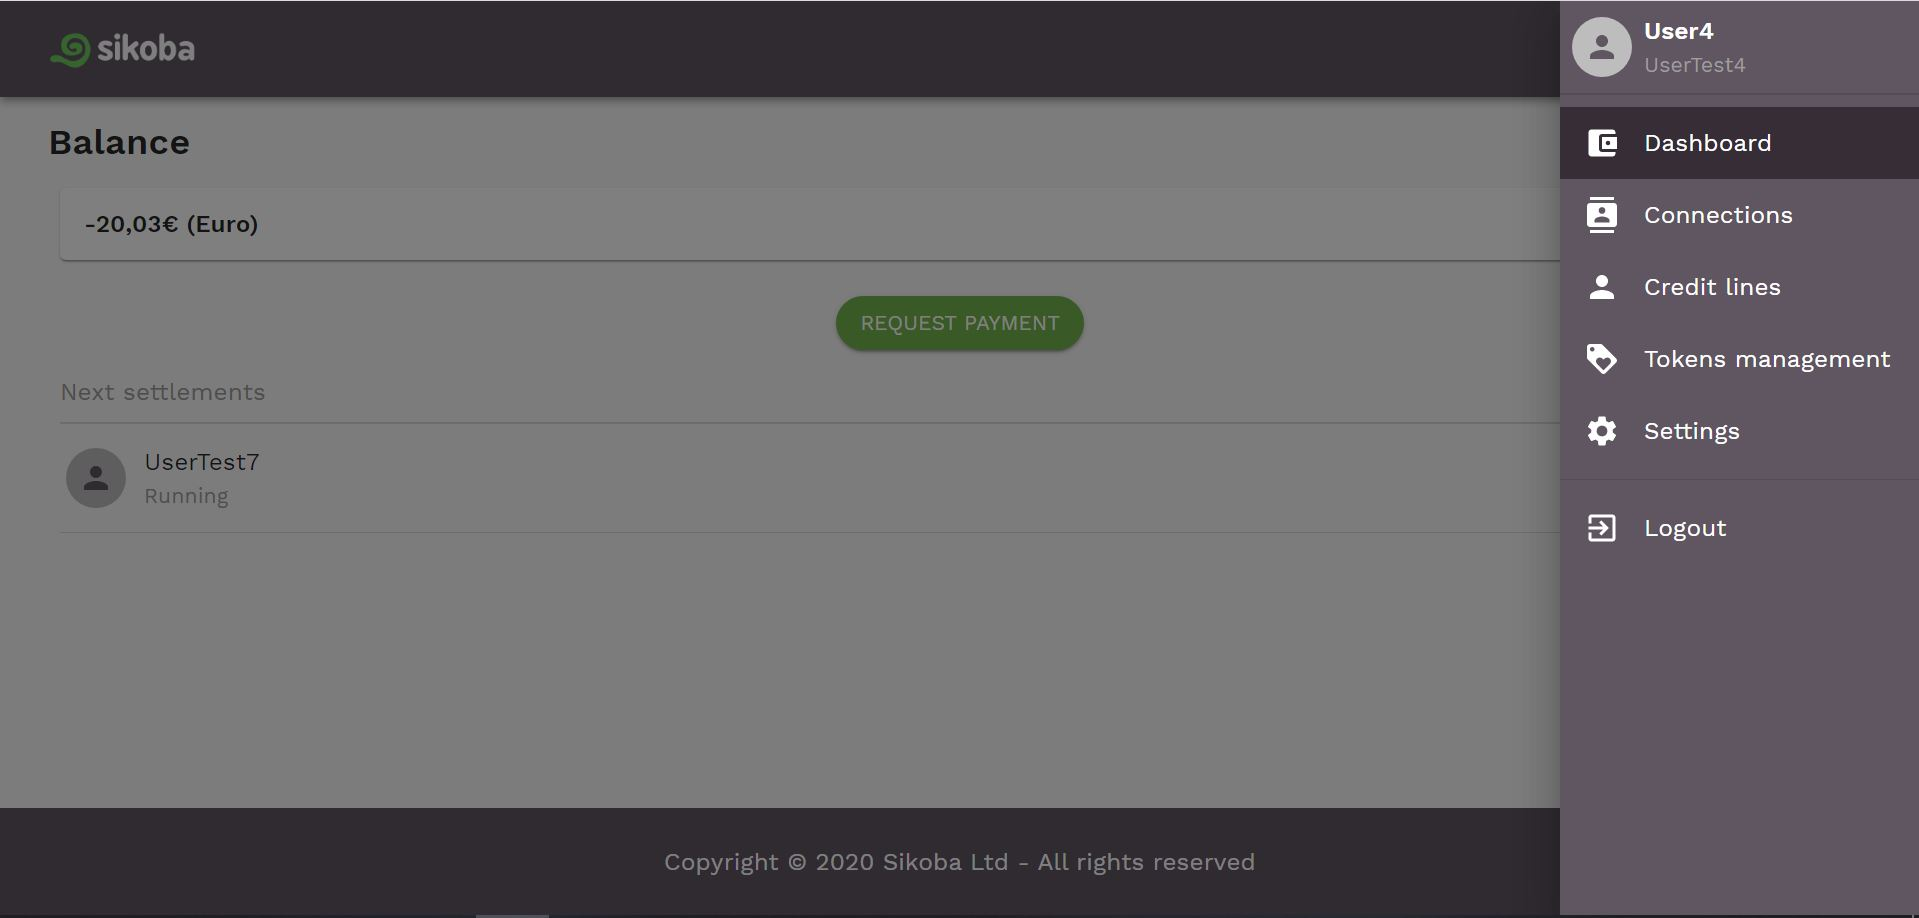
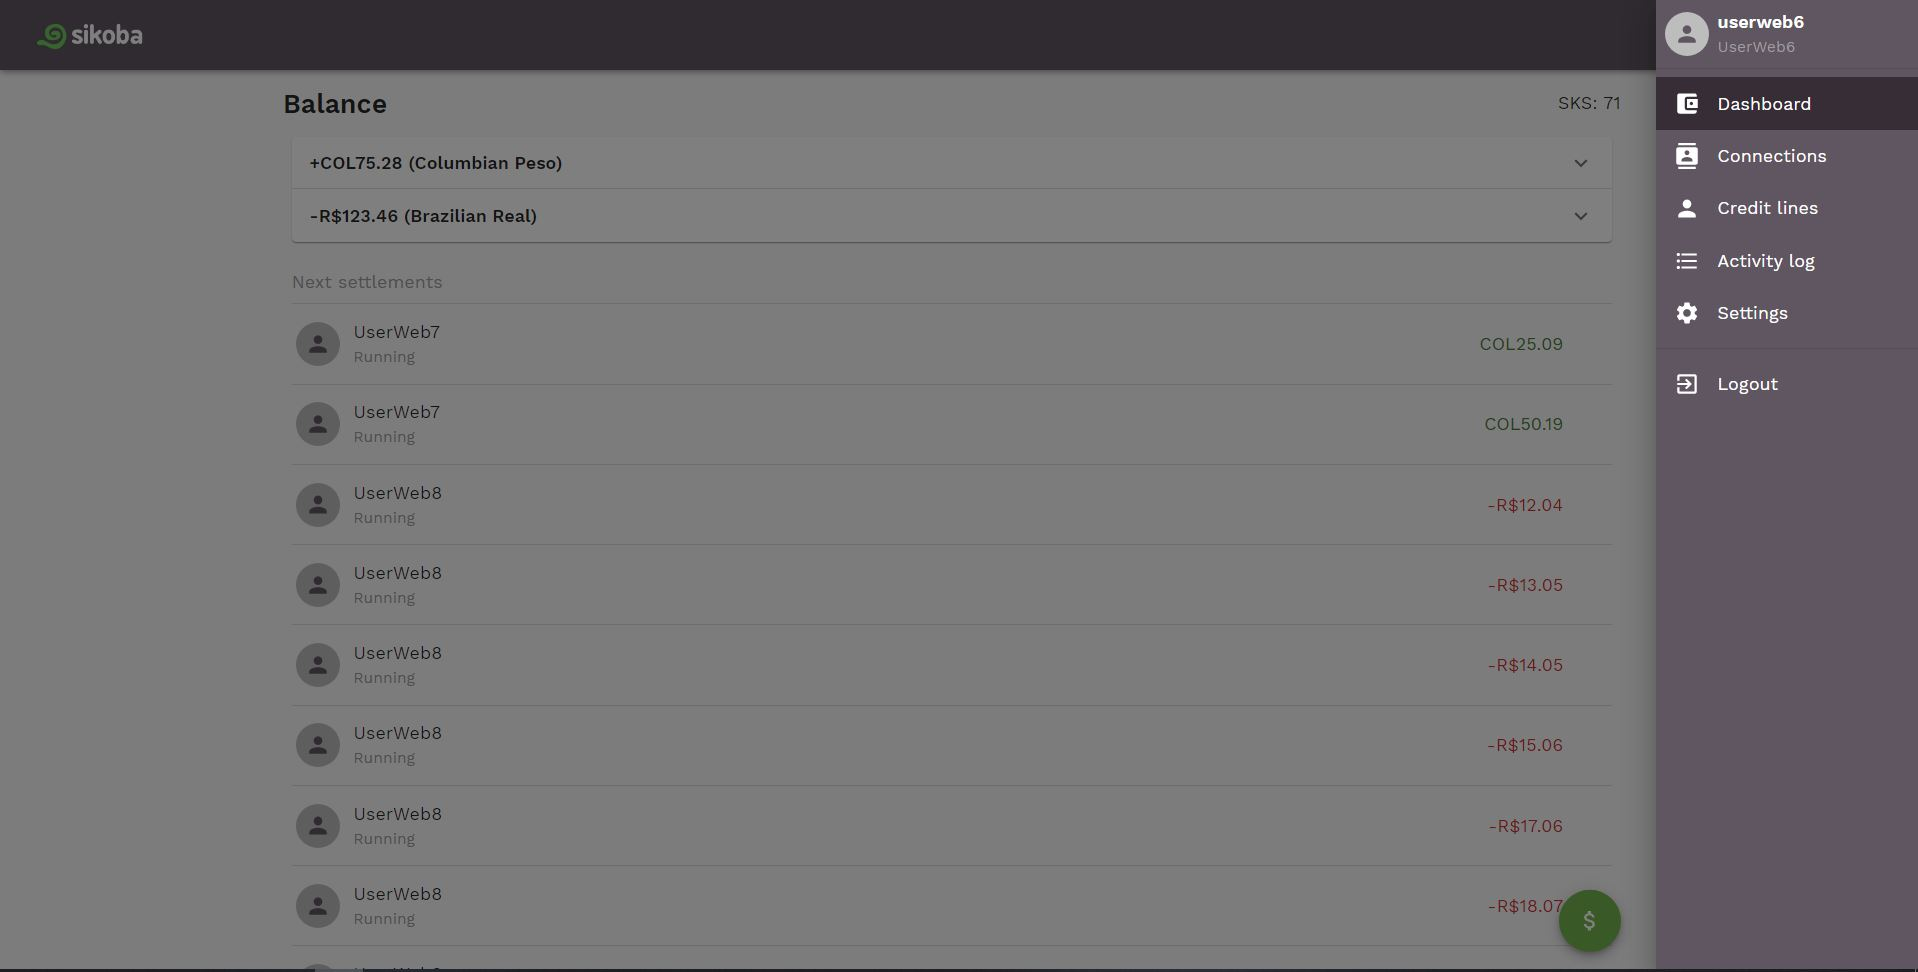
Activity log docs added

diff --git a/docusaurus/docs/web/menu.md b/docusaurus/docs/web/menu.md
@@ -10,7 +10,7 @@ The **menu** allows you to open:
 - [Dashboard page](dashboard.md)
 - [Connections page](connections-page.md)
 - [Credit lines page](credit-lines-page.md)
-- [Tokens management page](tokens-management-page.md) *(coming soon)*
+- [Activity log page](activity-log.md)
 - [Settings page](settings-page.md)
 
 Or to logout from the app.
